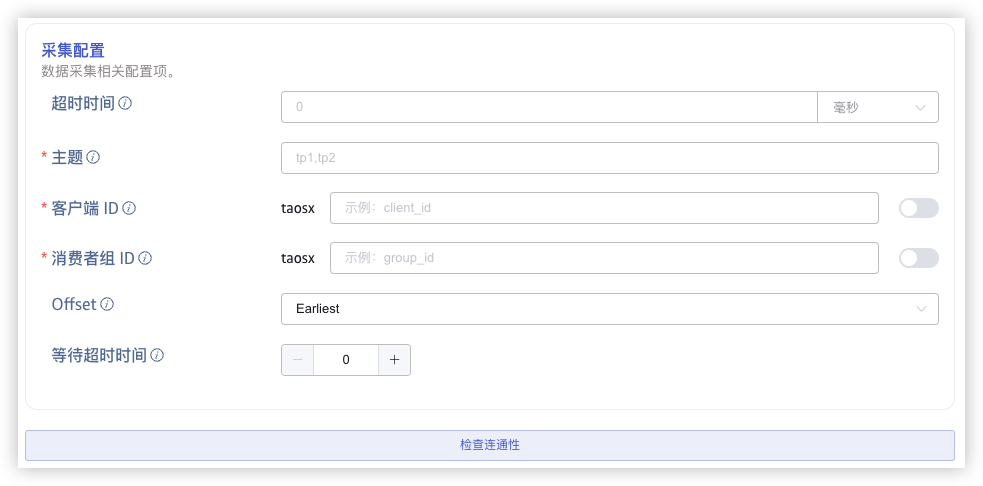
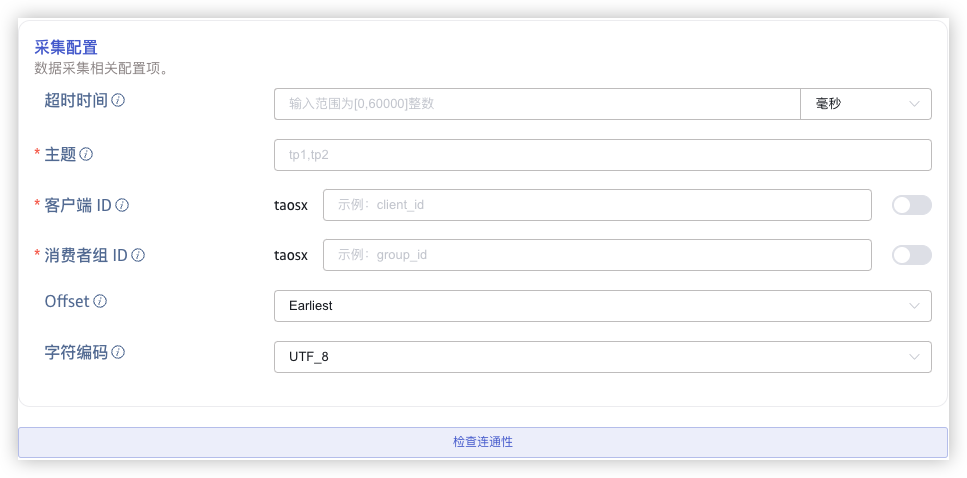
docs(datain): support mqtt/kafka payload decompression and string decoding

diff --git a/docs/zh/06-advanced/05-data-in/07-mqtt.md b/docs/zh/06-advanced/05-data-in/07-mqtt.md
@@ -65,6 +65,10 @@ TDengine 可以通过 MQTT 连接器从 MQTT 代理订阅数据并将其写入 T
 
 在 **订阅主题及 QoS 配置** 中填写要消费的 Topic 名称和 QoS。使用如下格式设置： `{topic_name}::{qos}`（如：`my_topic::0`）。MQTT 协议 5.0 支持共享订阅，可以通过多个客户端订阅同一个 Topic 实现负载均衡，使用如下格式： `$share/{group_name}/{topic_name}::{qos}`，其中，`$share` 是固定前缀，表示启用共享订阅，`group_name` 是分组名称，类似 kafka 的消费者组。
 
+在 **数据压缩** 中，配置消息体压缩算法，taosX 在接收到消息后，使用对应的压缩算法对消息体进行解压缩获取原始数据。可选项 none(不压缩), gzip, snappy, lz4 和 zstd，默认为 none。
+
+在 **字符编码** 中，配置消息体编码格式，taosX 在接收到消息后，使用对应的编码格式对消息体进行解码获取原始数据。可选项 UTF_8, GBK, GB18030, BIG5，默认为 UTF_8
+
 点击 **检查连通性** 按钮，检查数据源是否可用。
 
 ![mqtt-05.png](./mqtt-05.png)

diff --git a/docs/zh/06-advanced/05-data-in/08-kafka.md b/docs/zh/06-advanced/05-data-in/08-kafka.md
@@ -113,6 +113,8 @@ kcat <topic> \
 
 在 **获取数据的最大时长** 中设置获取消息时等待数据不足的最长时间（以毫秒为单位），默认值为 100ms。
 
+在 **字符编码** 中，配置消息体编码格式，taosX 在接收到消息后，使用对应的编码格式对消息体进行解码获取原始数据。可选项 UTF_8, GBK, GB18030, BIG5，默认为 UTF_8
+
 点击 **连通性检查** 按钮，检查数据源是否可用。
 
 ![kafka-06.png](./kafka-06.png)
